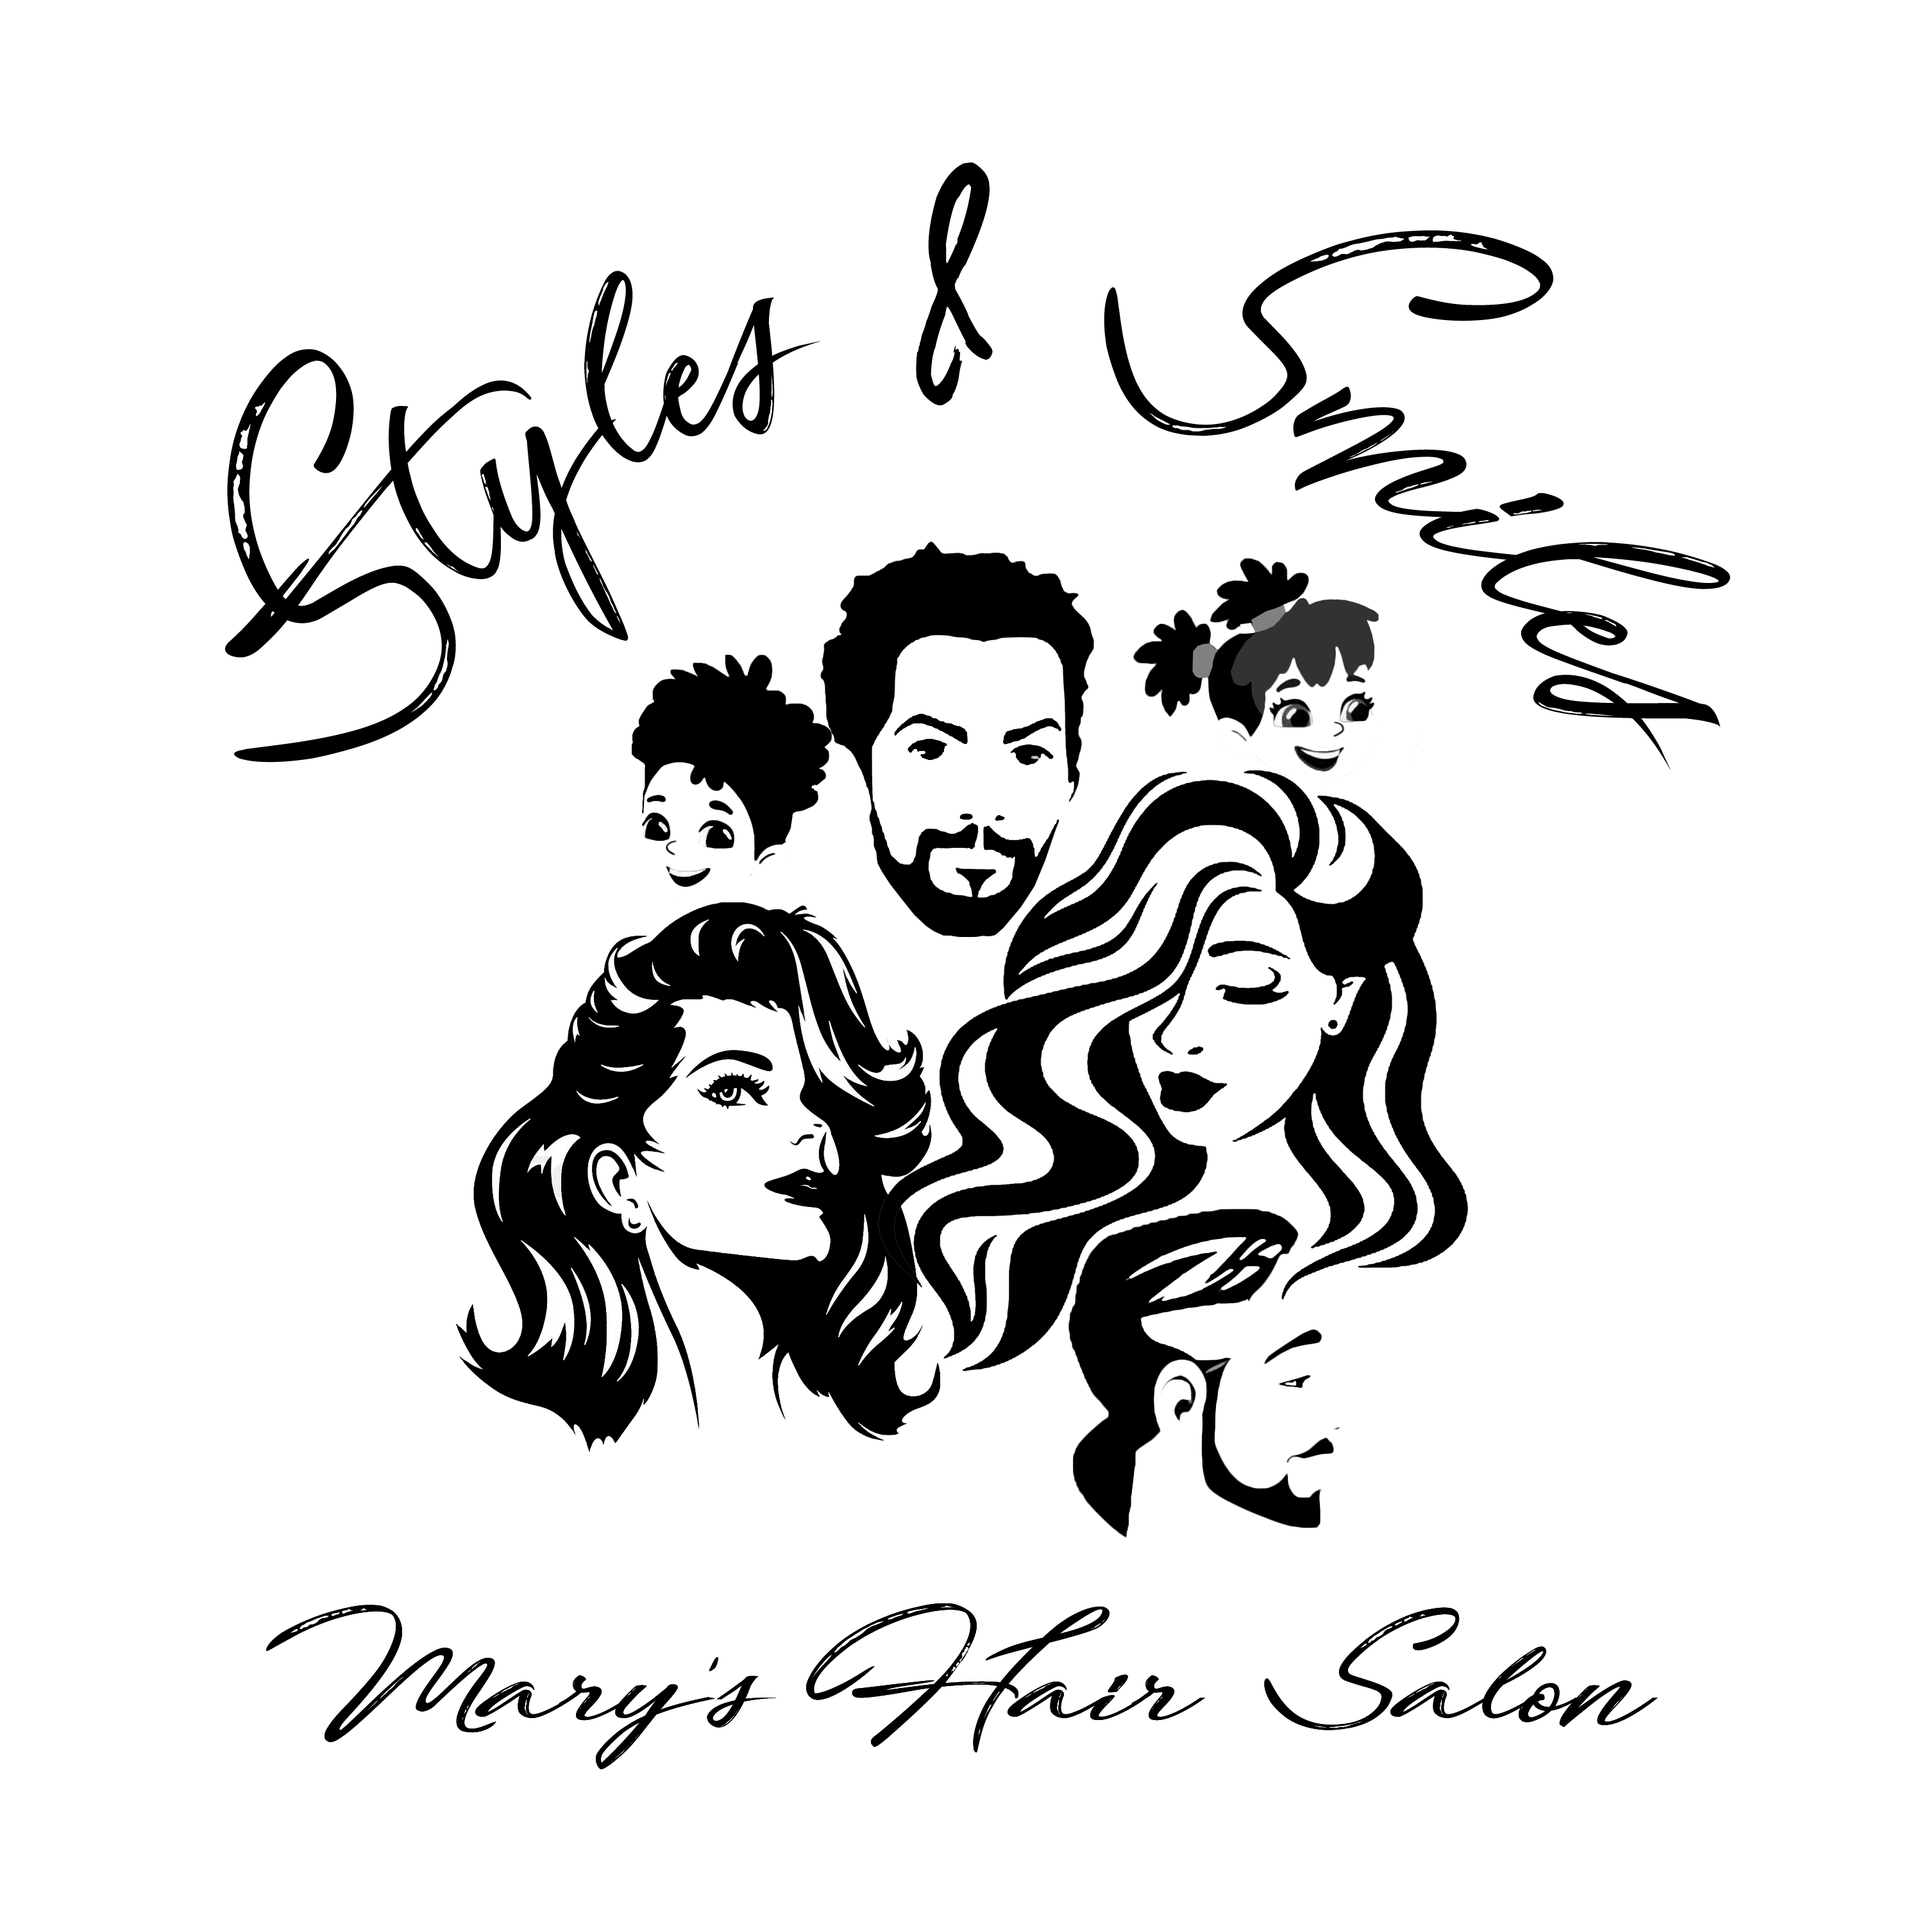
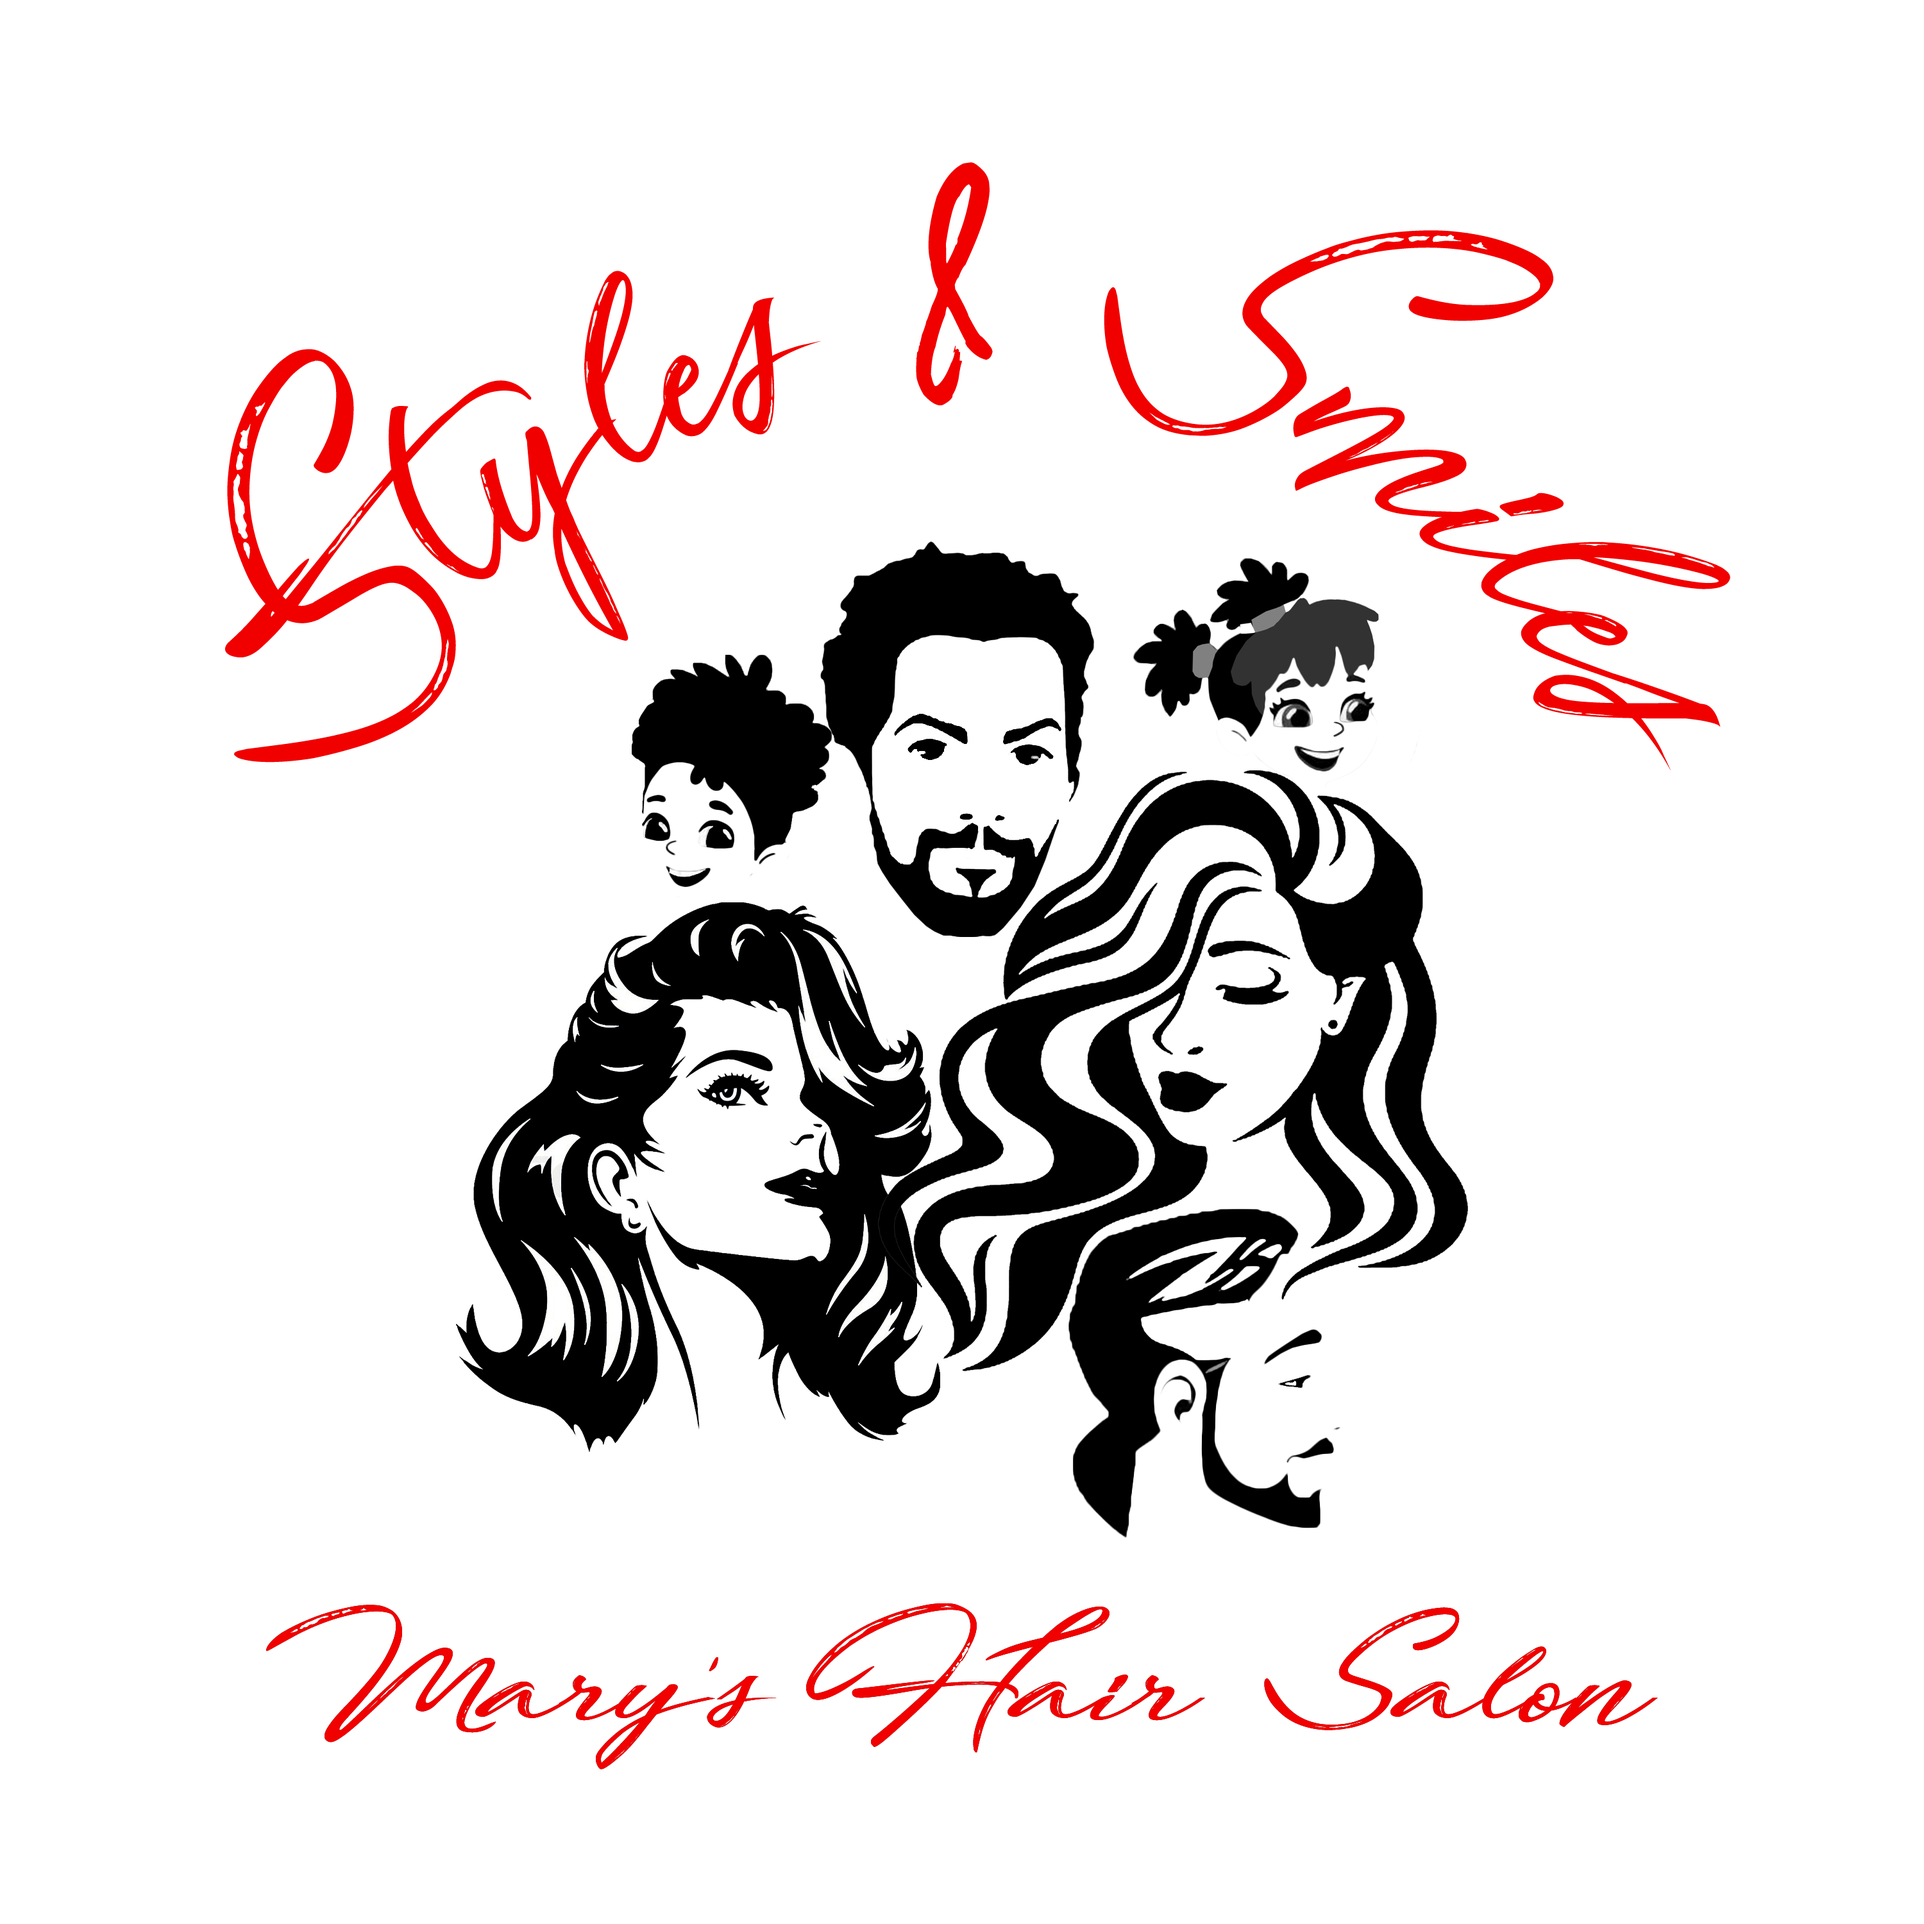
FINALv3

diff --git a/services.html b/services.html
@@ -37,12 +37,11 @@
           </div>
         </nav>
         
-        <div class="container-fluid services-pg-h">
-            <h2 class="display-3 text-center mb-0 pb-0">Services</h2>
-            <p class="text-center mt-0">Please Call For Appointment: 630-907-7109</p>
-        </div>
         
-        <div class="container-fluid services-desc text-center pb-4">
+        
+        <div class="container-fluid services-pg-h text-center">
+            <h2 class="display-3 mb-0 pb-0">Services</h2>
+            <p class="mt-0">Please Call For Appointment: 630-907-7109</p>
             <div class="row">
                 <div class="style-finishing offset-lg-1 col-lg-5">
                     <h2>Style & Finishing</h2>
@@ -83,17 +82,23 @@
                     <p>Fusion Extensions - $250 to $300.</p>
                     <p>Sew Ins - $125 and up</p>
                 </div>
+            <div class="container-fluid text-center pt-3">
+           <h2 class="display-4">Appointments</h2>
+            <div class="row">
+                <div class="offset-lg-4 col-lg-4">
+                    <p class="app-p">Although walk-ins are welcome, we strongly recommend scheduling an appointment with one of the members on our team as we prioritize appointments since it ensures we can assists all of our guests in an organized and timely manner. <br>Please call: 630-907-7109 </p>
+                </div>
+            </div>
+            </div> 
             </div>
         </div>
         
-        <div class="container-fluid text-center app">
-            <h2 class="display-4">Appointments</h2>
-            <div class="row">
-                <div class="offset-lg-4 col-lg-4">
-                    <p class="app-p">Although walk-ins are welcome, we strongly recommend scheduling an appointment with one of the members on our team as we prioritize appointments since it ensures we can assists all of our guests in an organized and timely manner. Please call <br> 630-907-7109 </p>
-                </div>
+        <div class="">
+            <div>
+                
             </div>
         </div>
+        
         
         
         <footer>

diff --git a/css/main.css b/css/main.css
@@ -33,6 +33,23 @@ nav img {
     color: black;
 }
 
+p {
+    font-size: 24px;
+    font-family: "Arial Bold";
+}
+
+.img-header, .services-pg-h, .contact-pg-h {
+    background-image: url(../images/background.jpg);
+    background-attachment: fixed;
+    background-position: center;
+    background-repeat: repeat;
+    background-size: cover;
+    border-bottom-style: solid;
+    border-bottom-width: 2px;
+    border-bottom-color: black;
+}
+
+
 .active {
     text-decoration: underline;
 }
@@ -45,11 +62,25 @@ nav img {
     border-bottom-style: solid;
     border-bottom-width: 2px;
     border-bottom-color: black;
+    background-image: url(../images/background.jpg);
 }
 
 .img-header-logo{
     height: 230px;
     width: auto;
+}
+
+.img-header-text {
+    color: red;
+}
+
+.strokeme   {
+    color: red;
+    text-shadow:
+    -1px -1px 0 #D3D3D3,
+    1px -1px 0 #D3D3D3,
+    -1px 1px 0 #D3D3D3,
+    1px 1px 0 #D3D3D3;  
 }
 
 
@@ -61,7 +92,7 @@ nav img {
 }
 
 h2 {
-    font-family: Fortunates December;
+    font-family: "Fortunates December";
 }
 
 /* Why Choose Us? */
@@ -78,6 +109,19 @@ h2 {
     width: 80%;
 }
 
+.wcu { 
+    /* The image used */
+    background-image: url(../images/white-pattern.jpg);
+
+    /* Full height */
+
+    /* Create the parallax scrolling effect */
+    background-attachment: fixed;
+    background-position: center;
+    background-repeat: repeat;
+    background-size: cover;
+}
+
 /* END Why Choose Us? */
 
 /* Services */
@@ -91,6 +135,7 @@ h2 {
     width: 50%;
     font-size: 20px;
 }
+
 
 .btn-lg {
     width: 300px;
@@ -146,18 +191,11 @@ h2 {
     font-size: 25px;
 }
 
-.app-p {
-  font-size: 20px;  
-}
-
 #mapDiv{
     width: 100%;
     height: 55%;
 }
 
-p {
-    font-size: 20px;
-}
 
 @media (max-width: 768px) {
     .centered {

diff --git a/contact.html b/contact.html
@@ -5,9 +5,6 @@
         <title>Contact</title>
         <meta name="description">
         <meta name="viewport" content="width=device-width">
-
-        <!-- Place favicon.ico and apple-touch-icon.png in the root directory -->
-
         <link rel="stylesheet" href="https://stackpath.bootstrapcdn.com/bootstrap/4.1.3/css/bootstrap.min.css" integrity="sha384-MCw98/SFnGE8fJT3GXwEOngsV7Zt27NXFoaoApmYm81iuXoPkFOJwJ8ERdknLPMO" crossorigin="anonymous">
         <link rel="stylesheet" href="css/main.css">
         <link rel="stylesheet" href="https://unpkg.com/leaflet@1.3.1/dist/leaflet.css" integrity="sha512-Rksm5RenBEKSKFjgI3a41vrjkw4EVPlJ3+OiI65vTjIdo9brlAacEuKOiQ5OFh7cOI1bkDwLqdLw3Zg0cRJAAQ==" crossorigin=""/>
@@ -38,10 +35,7 @@
         
         <div class="container-fluid contact-pg-h">
             <h2 class="display-3 text-center">Contact</h2>
-        </div>
-        
-        <div class="container-fluid text-center">
-            <div class="row">
+            <div class="row text-center">
                 <div class="col-lg-4">
                     <h2 class="contact-h">Location</h2>
                     <p>We are located right on Montgomery Road right in between Eola and Route 59.</p>
@@ -67,9 +61,12 @@
                 </div>
                 
             </div>
+            
+            
         </div>
         
-        <div id="mapDiv" class="mb-3"></div>
+        
+        <div id="mapDiv" class=""></div>
         
         
         <footer>

diff --git a/index.html b/index.html
@@ -39,8 +39,8 @@
         <div class="container-fluid img-header">
              <div class="centered text-center">
                  <img class="img-header-logo" src="images/smiles&styles.png">
-                 <p class="display-1 img-header-text">Styles&Smiles</p>
-                 <p class="display-4 img-header-text2">Mary's Hair Salon</p>
+                 <p class="display-1 img-header-text strokeme">Styles&Smiles</p>
+                 <p class="display-4 img-header-text strokeme">Mary's Hair Salon</p>
             </div>
         </div>
         
